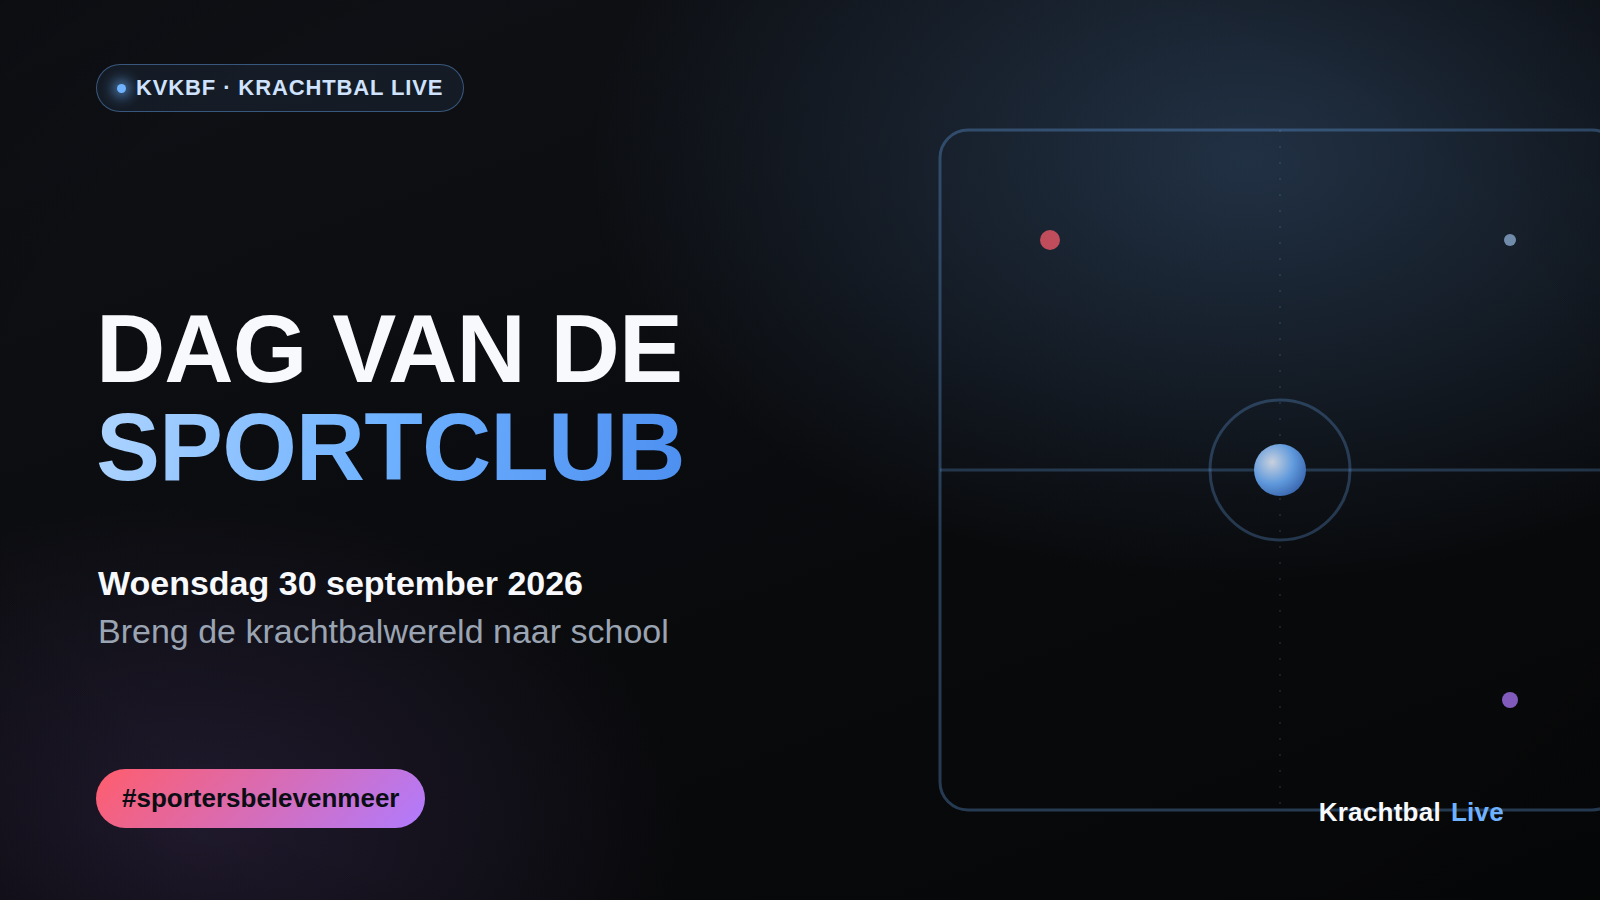
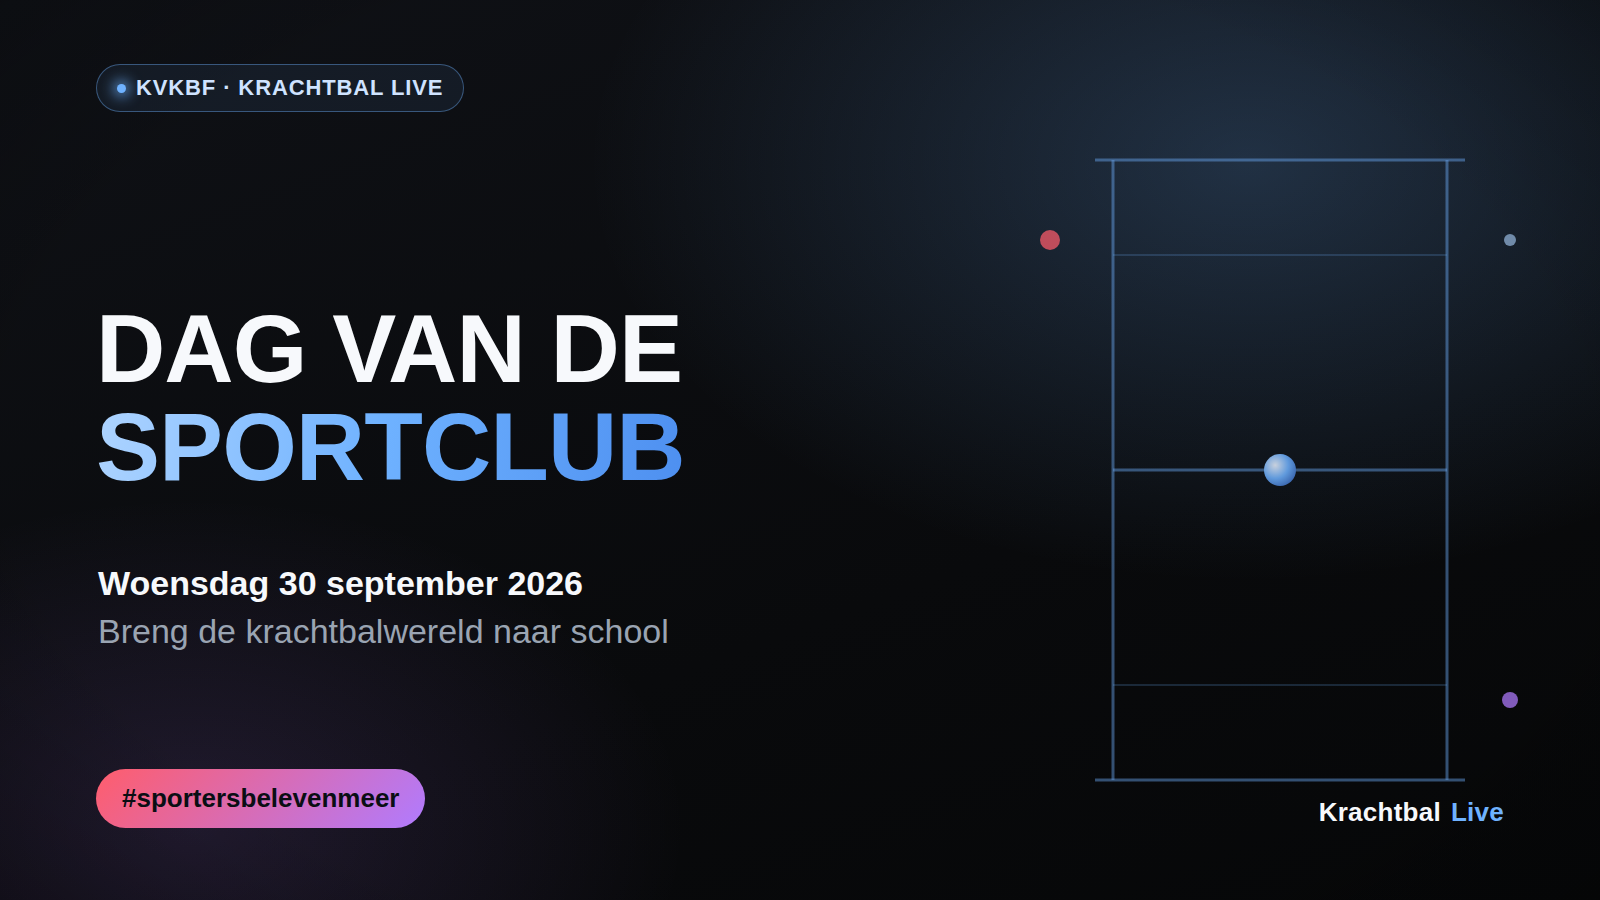
Coverfoto: veldmotief met de echte krachtbal-veldlijnen
Het decoratieve veld op de banner was een generiek vak met een cirkel —
geen echt krachtbalveld. Nu getekend op de juiste verhouding (14 x 26 m,
src/lib/field.ts) met de vier lijnen die op een echt terrein staan:
zijlijnen, doellijn (met de kenmerkende streepjes voorbij de zijlijn, zoals
FieldSchema.tsx die ook tekent), middellijn en de twee vrijworplijnen op
4 m van elke doellijn. Zelfde ijsblauw-op-donker stijl als de rest van de
banner, geen grasmat.

Het upload-script werkt een bestaande coverfoto nu ook bij (i.p.v. enkel te
hergebruiken) zodat een latere revisie van de banner correct doorkomt.

Claude-Session: https://claude.ai/code/session_01832fW3h7VSZKUyjaXvxyMo

diff --git a/scripts/assets/cover.html b/scripts/assets/cover.html
@@ -66,12 +66,23 @@
 <body>
   <div class="vignette"></div>
 
+  <!-- Krachtbalveld op de echte verhouding (14 m breed x 26 m speelveld, src/lib/field.ts) —
+       zijlijnen (de lange kanten), doellijn boven/onder (met de kenmerkende streepjes voorbij de
+       zijlijn, net als FieldSchema.tsx), de middellijn, en de twee vrijworplijnen op 4 m van elke
+       doellijn. Zelfde ijsblauw-op-donker stijl als de rest van de banner — geen grasmat. -->
   <svg class="court" viewBox="0 0 760 760" fill="none" xmlns="http://www.w3.org/2000/svg">
-    <rect x="40" y="40" width="680" height="680" rx="28" stroke="#6fb2ff" stroke-opacity="0.35" stroke-width="3"/>
-    <line x1="40" y1="380" x2="720" y2="380" stroke="#6fb2ff" stroke-opacity="0.28" stroke-width="3"/>
-    <line x1="380" y1="40" x2="380" y2="720" stroke="#6fb2ff" stroke-opacity="0.16" stroke-width="2" stroke-dasharray="2 14"/>
-    <circle cx="380" cy="380" r="70" stroke="#6fb2ff" stroke-opacity="0.30" stroke-width="3"/>
-    <circle cx="380" cy="380" r="26" fill="url(#ballGrad)"/>
+    <!-- Doellijn met de streepjes voorbij de zijlijn (boven + onder) -->
+    <line x1="195" y1="70" x2="565" y2="70" stroke="#6fb2ff" stroke-opacity="0.5" stroke-width="3"/>
+    <line x1="195" y1="690" x2="565" y2="690" stroke="#6fb2ff" stroke-opacity="0.5" stroke-width="3"/>
+    <!-- Zijlijnen -->
+    <line x1="213" y1="70" x2="213" y2="690" stroke="#6fb2ff" stroke-opacity="0.5" stroke-width="3"/>
+    <line x1="547" y1="70" x2="547" y2="690" stroke="#6fb2ff" stroke-opacity="0.5" stroke-width="3"/>
+    <!-- Vrijworplijnen — 4 m van elke doellijn (4/26e van het speelveld) -->
+    <line x1="213" y1="165" x2="547" y2="165" stroke="#6fb2ff" stroke-opacity="0.30" stroke-width="1.5"/>
+    <line x1="213" y1="595" x2="547" y2="595" stroke="#6fb2ff" stroke-opacity="0.30" stroke-width="1.5"/>
+    <!-- Middellijn -->
+    <line x1="213" y1="380" x2="547" y2="380" stroke="#6fb2ff" stroke-opacity="0.5" stroke-width="3"/>
+    <circle cx="380" cy="380" r="16" fill="url(#ballGrad)"/>
     <circle cx="150" cy="150" r="10" fill="#ff5d6c" fill-opacity="0.85"/>
     <circle cx="610" cy="610" r="8" fill="#b07bff" fill-opacity="0.85"/>
     <circle cx="610" cy="150" r="6" fill="#aed4ff" fill-opacity="0.7"/>

diff --git a/scripts/set-dag-van-de-sportclub-cover.ts b/scripts/set-dag-van-de-sportclub-cover.ts
@@ -2,7 +2,8 @@
 // banner-beeld (scripts/assets/dag-van-de-sportclub-cover.png, huisstijl-kleuren), i.p.v. de
 // campagnegrafiek uit de opdracht (die Instagram-UI-chrome en andermans accountnaam bevatte).
 //   pnpm exec tsx scripts/set-dag-van-de-sportclub-cover.ts
-// Idempotent: hergebruikt een eerder geüploade versie (matcht op alt-tekst) i.p.v. te dupliceren.
+// Idempotent: matcht op alt-tekst en werkt dat record bij (ook het bestand zelf) i.p.v. te
+// dupliceren — dus ook veilig opnieuw te draaien na een revisie van de banner.
 import 'dotenv/config'
 import fs from 'fs'
 import path from 'path'
@@ -36,19 +37,17 @@ async function main() {
     overrideAccess: true,
   })
 
+  const filePath = path.join(__dirname, 'assets', 'dag-van-de-sportclub-cover.png')
+  const buf = fs.readFileSync(filePath)
+  const file = { data: buf, mimetype: 'image/png', name: 'dag-van-de-sportclub-cover.png', size: buf.length }
+
   let mediaId: number
   if (bestaandMedia.docs.length > 0) {
     mediaId = bestaandMedia.docs[0].id
-    console.log(`Bestaande coverfoto hergebruikt: media #${mediaId}.`)
+    await payload.update({ collection: 'media', id: mediaId, data: { alt: ALT }, file, overrideAccess: true })
+    console.log(`Bestaande coverfoto bijgewerkt: media #${mediaId}.`)
   } else {
-    const filePath = path.join(__dirname, 'assets', 'dag-van-de-sportclub-cover.png')
-    const buf = fs.readFileSync(filePath)
-    const created = await payload.create({
-      collection: 'media',
-      data: { alt: ALT },
-      file: { data: buf, mimetype: 'image/png', name: 'dag-van-de-sportclub-cover.png', size: buf.length },
-      overrideAccess: true,
-    })
+    const created = await payload.create({ collection: 'media', data: { alt: ALT }, file, overrideAccess: true })
     mediaId = created.id
     console.log(`Coverfoto geüpload: media #${mediaId}.`)
   }
